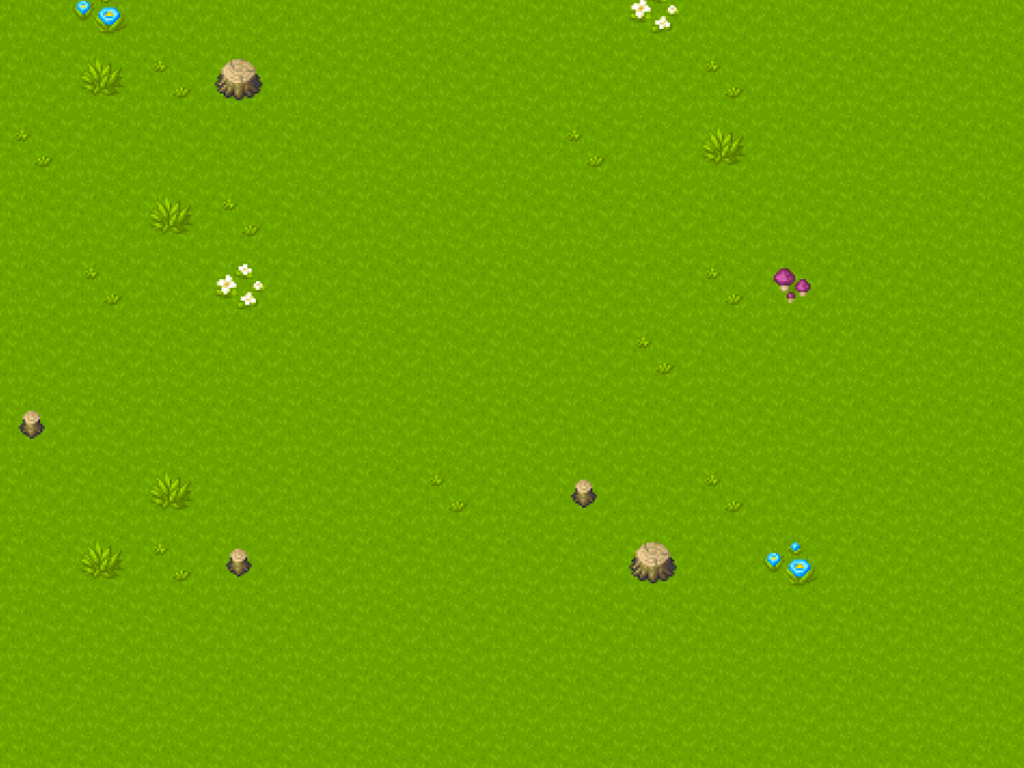
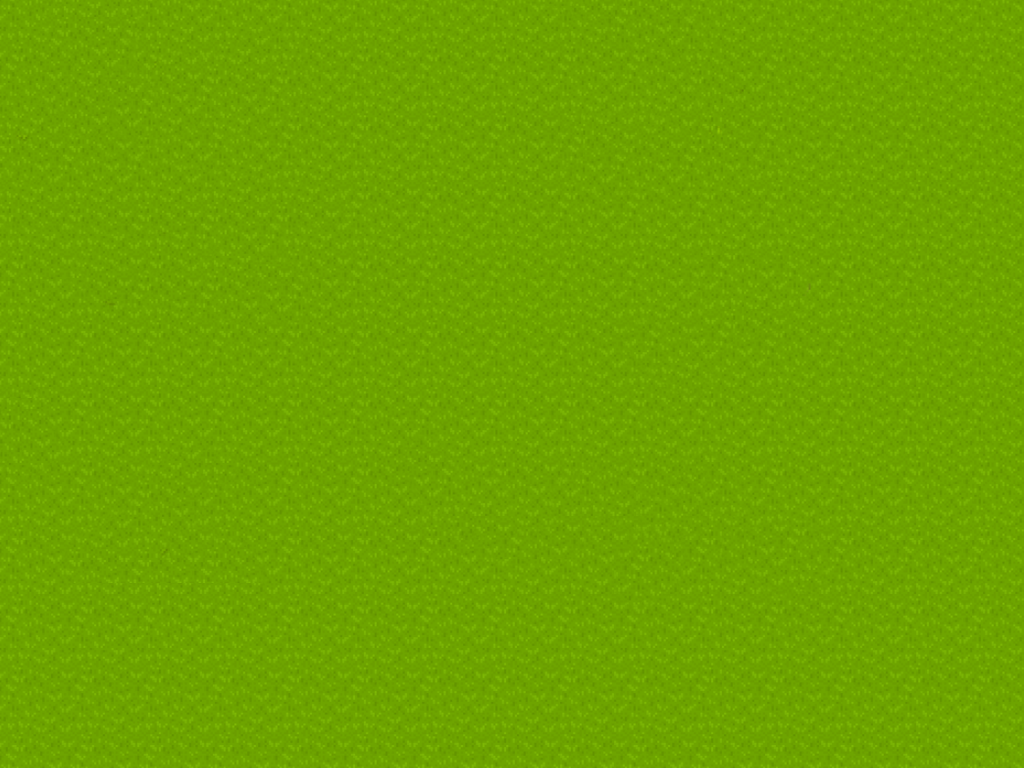
Add environment.py

diff --git a/environment.py b/environment.py
@@ -1,0 +1,116 @@
+import os
+import pygame as pg
+
+
+class BackgroundSprite(pg.sprite.Sprite):
+    def __init__(self, image_path):
+        super().__init__()
+        self.image = pg.image.load(image_path).convert()
+        self.rect = self.image.get_rect()
+        self.rect.topleft = (0, 0)
+
+
+class DecorationSprite(pg.sprite.Sprite):
+    def __init__(self, image_path: str, x_position: int, y_position: int) -> None:
+        super().__init__()
+        self.scale_factor = 0.82
+
+        self.image = pg.image.load(image_path).convert_alpha()
+        self.image = pg.transform.scale(self.image, (self.image.get_width() * self.scale_factor, self.image.get_height() * self.scale_factor))
+        self.rect = self.image.get_rect()
+        self.rect.center = (x_position, y_position)
+
+
+class HerbSmall(DecorationSprite):
+    def __init__(self, x_position: int, y_position: int):
+        image_path = os.path.join("images", "Environment", "herbs", "herb_2.png")
+        super().__init__(image_path, x_position, y_position)
+
+
+class HerbBig(DecorationSprite):
+    def __init__(self, x_position: int, y_position: int):
+        image_path = os.path.join("images", "Environment", "herbs", "herb_1.png")
+        super().__init__(image_path, x_position, y_position)
+
+
+class StumpSmall(DecorationSprite):
+    def __init__(self, x_position: int, y_position: int):
+        image_path = os.path.join("images", "Environment", "stumps", "stump_1.png")
+        super().__init__(image_path, x_position, y_position)
+
+
+class StumpBig(DecorationSprite):
+    def __init__(self, x_position: int, y_position: int):
+        image_path = os.path.join("images", "Environment", "stumps", "stump_2.png")
+        super().__init__(image_path, x_position, y_position)
+
+
+class FlowerBlue(DecorationSprite):
+    def __init__(self, x_position: int, y_position: int):
+        image_path = os.path.join("images", "Environment", "flowers", "flower_2.png")
+        super().__init__(image_path, x_position, y_position)
+
+
+class FlowerWhite(DecorationSprite):
+    def __init__(self, x_position: int, y_position: int):
+        image_path = os.path.join("images", "Environment", "flowers", "flower_1.png")
+        super().__init__(image_path, x_position, y_position)
+
+
+class MushroomBrown(DecorationSprite):
+    def __init__(self, x_position: int, y_position: int):
+        image_path = os.path.join("images", "Environment", "mushrooms", "mushroom_1.png")
+        super().__init__(image_path, x_position, y_position)
+
+
+class MushroomPurple(DecorationSprite):
+    def __init__(self, x_position: int, y_position: int):
+        image_path = os.path.join("images", "Environment", "mushrooms", "mushroom_2.png")
+        super().__init__(image_path, x_position, y_position)
+
+
+class Dummy(DecorationSprite):
+    def __init__(self, x_position: int, y_position: int):
+        image_path = os.path.join("images", "Environment", "other", "dummy_1.png")
+        super().__init__(image_path, x_position, y_position)
+        self.__scale_factor = 2.0
+        self.image = pg.transform.scale(self.image, (self.image.get_width() * self.__scale_factor, self.image.get_height() * self.__scale_factor))
+
+
+class Environment(pg.sprite.Group):
+    def __init__(self):
+        super().__init__()
+
+        self.__background = BackgroundSprite(os.path.join("images", "game_background.png"))
+        self.add(self.__background)
+
+        decorations = (
+            MushroomPurple(900, 300),
+            MushroomPurple(400, 550),
+            MushroomPurple(700, 700),
+            MushroomBrown(900, 600),
+            FlowerBlue(800, 500),
+            FlowerBlue(100, 100),
+            FlowerWhite(200, 300),
+            FlowerWhite(400, 50),
+            StumpSmall(800, 400),
+            StumpSmall(50, 500),
+            StumpSmall(150, 600),
+            StumpBig(850, 450),
+            StumpBig(150, 50),
+            HerbSmall(50, 200),
+            HerbSmall(300, 650),
+            HerbSmall(200, 500),
+            HerbSmall(300, 300),
+            HerbSmall(700, 200),
+            HerbBig(100, 250),
+            HerbBig(200, 650),
+            HerbBig(250, 700),
+            HerbBig(900, 100),
+            HerbBig(850, 150),
+            HerbBig(650, 150),
+            Dummy(700, 100)
+        )
+
+        for decoration in decorations:
+            self.add(decoration)
